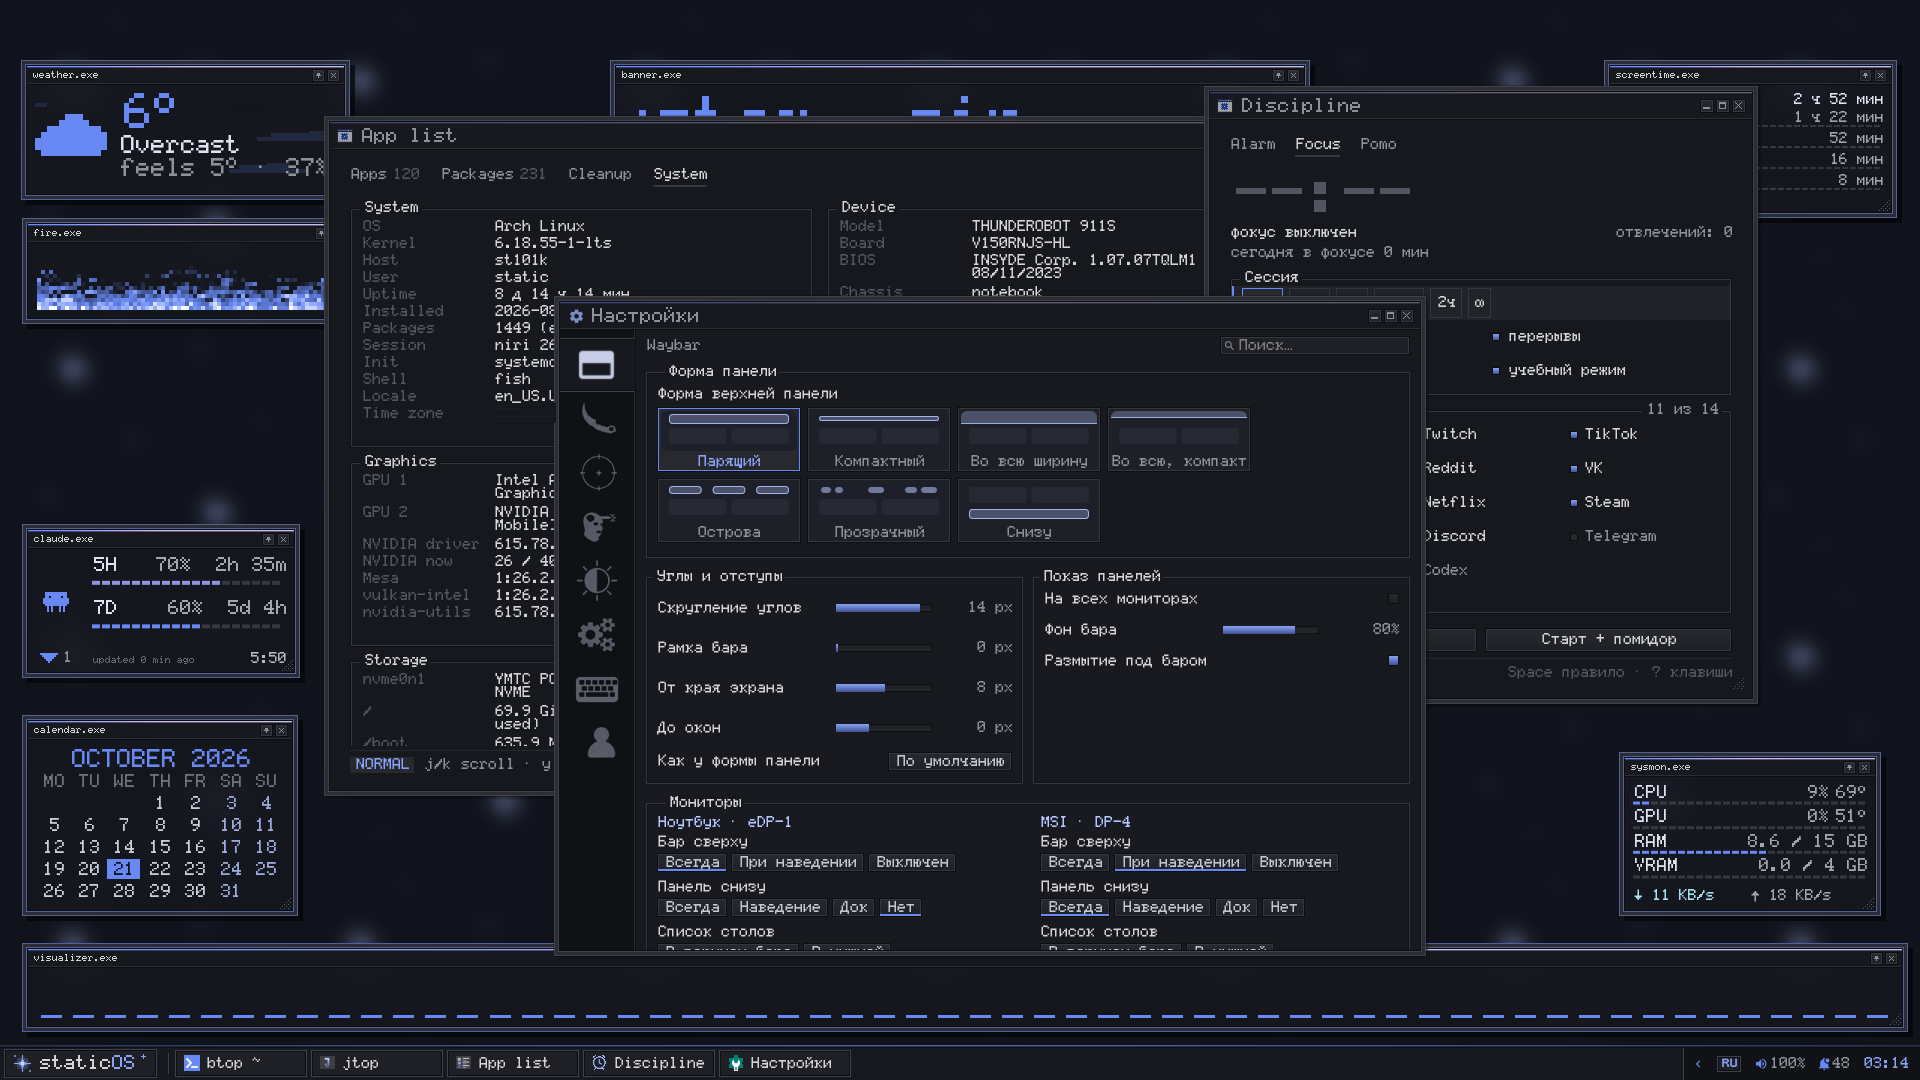
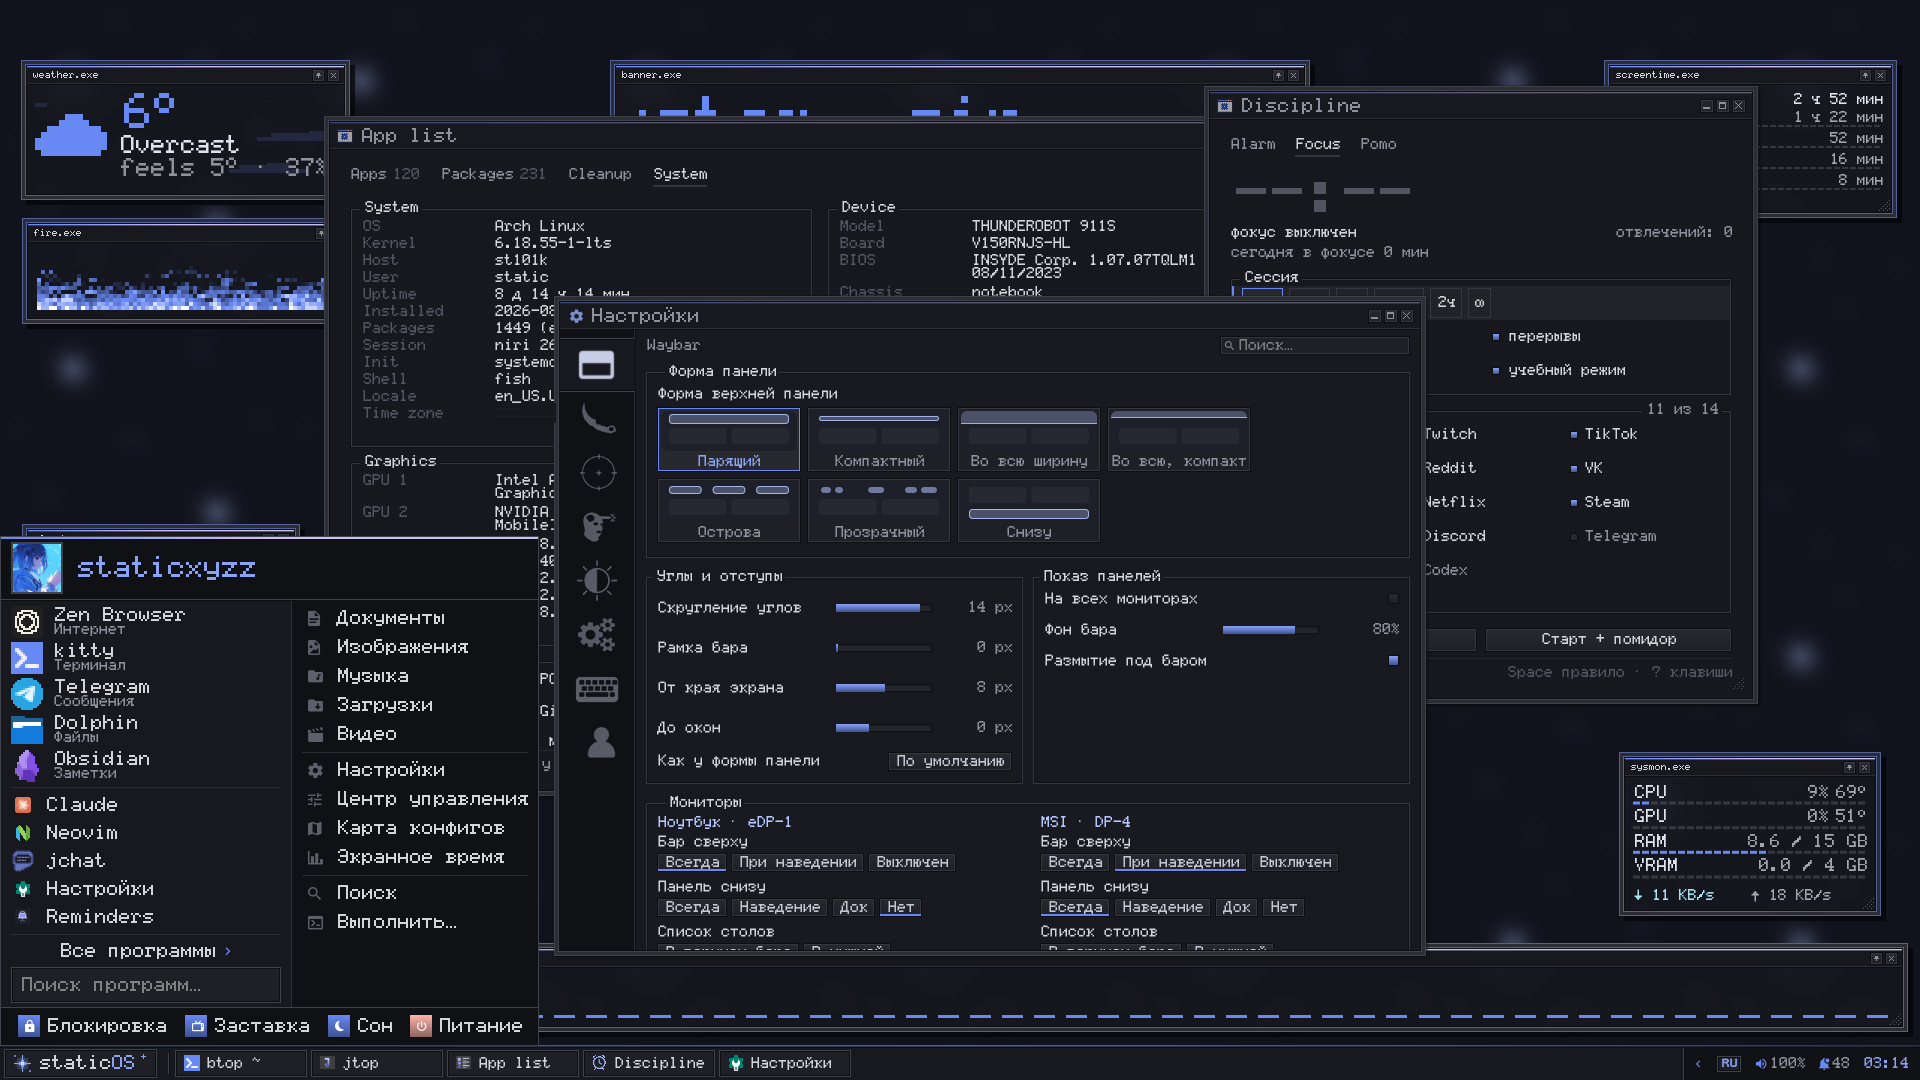
Stack mode screenshot: open Start menu on the left-sided panel

Changed region(s): [[0.0, 0.4889, 0.2812, 0.9778]]

diff --git a/README.ru.md b/README.ru.md
@@ -42,7 +42,7 @@
 
 | Left sided | Centered minimal |
 |:-:|:-:|
-| ![Стопка окон, панель слева](assets/stack-mode-left.png) | ![Стопка окон, панель по центру и «Пуск»](assets/stack-mode-centered.png) |
+| ![Стопка окон, панель слева и «Пуск»](assets/stack-mode-left.png) | ![Стопка окон, панель по центру и «Пуск»](assets/stack-mode-centered.png) |
 | Панель задач как в XP: «Пуск» слева, у каждого окна кнопка с названием | Значки по центру и «Пуск» в духе Windows 11 |
 
 - **Свои полосы и рамки** в стиле системы (Default, Skeet или Beta). В полосе значок самой

diff --git a/README.md b/README.md
@@ -42,7 +42,7 @@ The bottom panel comes in two looks. Pick one in Settings → DE → Bottom pane
 
 | Left sided | Centered minimal |
 |:-:|:-:|
-| ![Stack mode, left-sided panel](assets/stack-mode-left.png) | ![Stack mode, centered panel with the Start menu](assets/stack-mode-centered.png) |
+| ![Stack mode, left-sided panel with the Start menu](assets/stack-mode-left.png) | ![Stack mode, centered panel with the Start menu](assets/stack-mode-centered.png) |
 | XP-style taskbar: Start on the left, a button with a title for every window | Icons in the middle and a Windows 11-style Start |
 
 - **Own title bars and frames** in the system style (Default, Skeet or Beta). Each bar has
